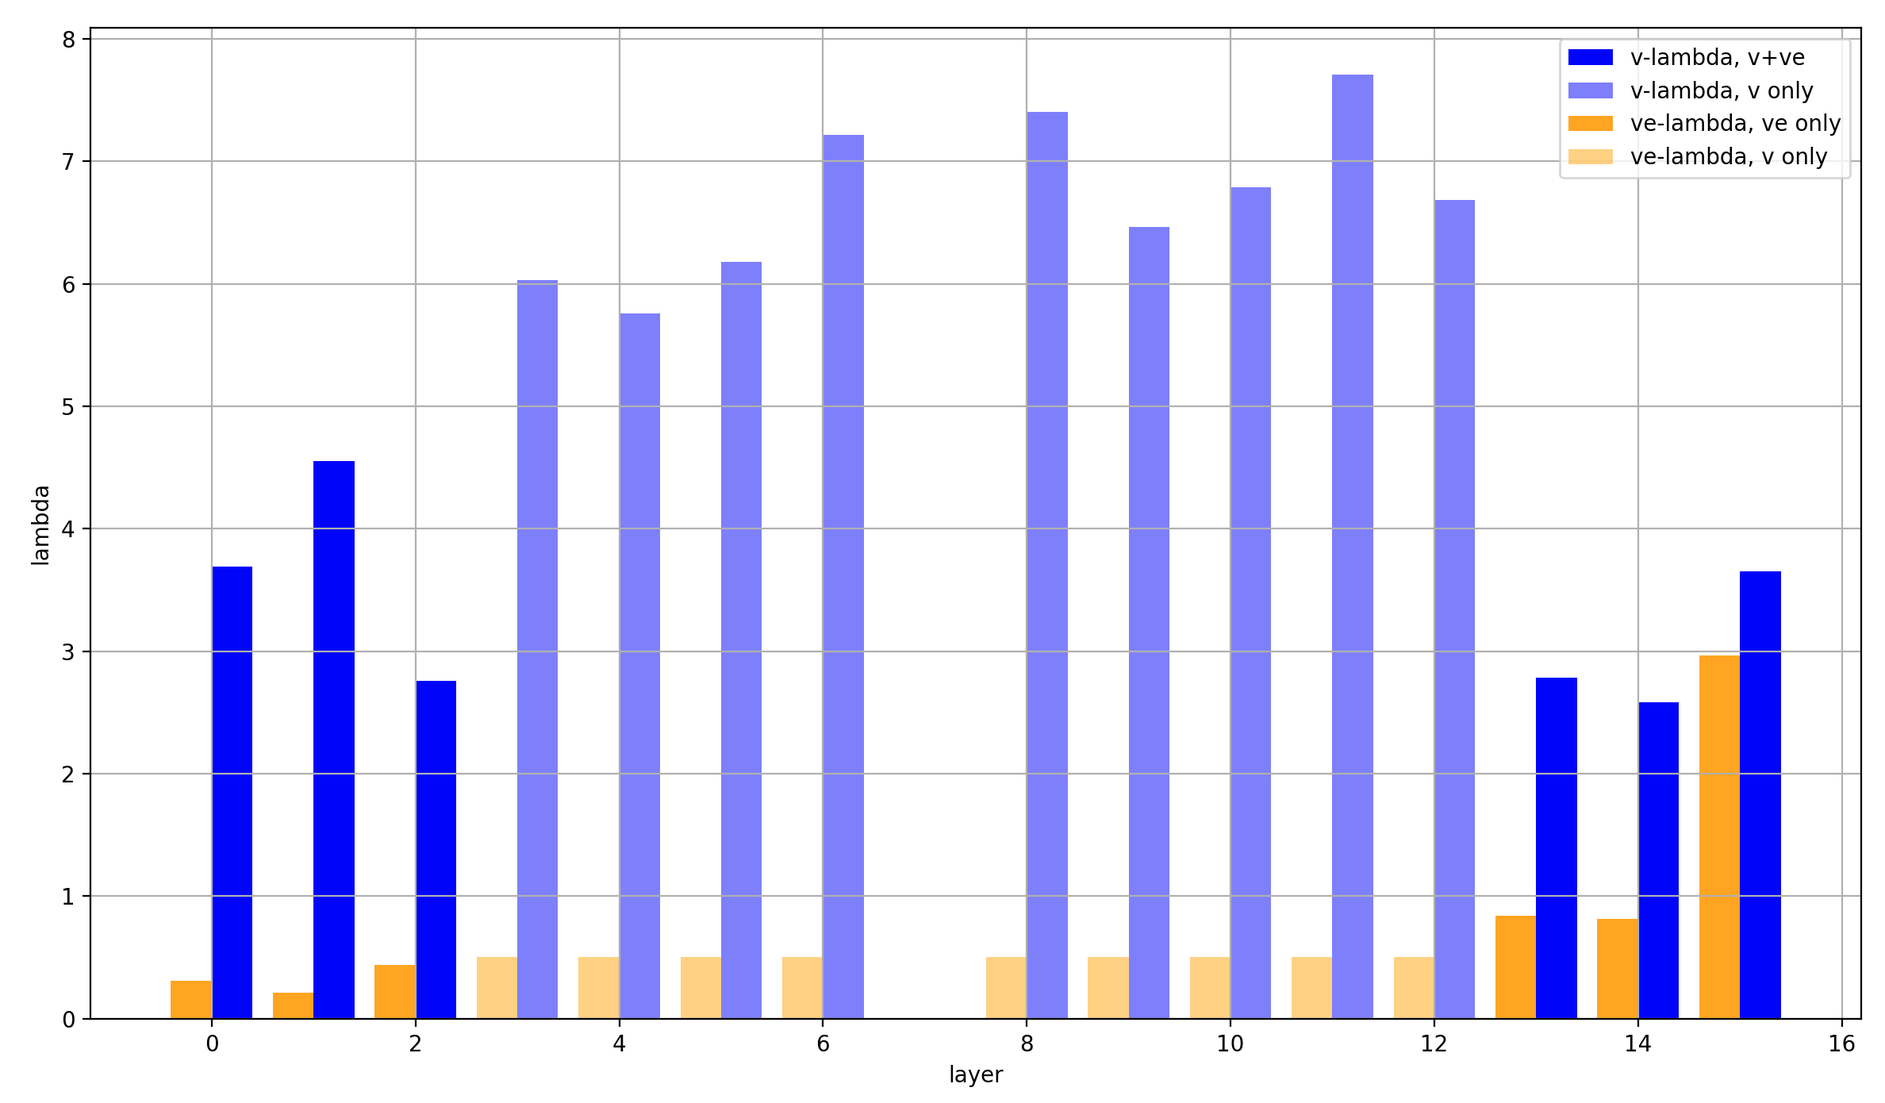
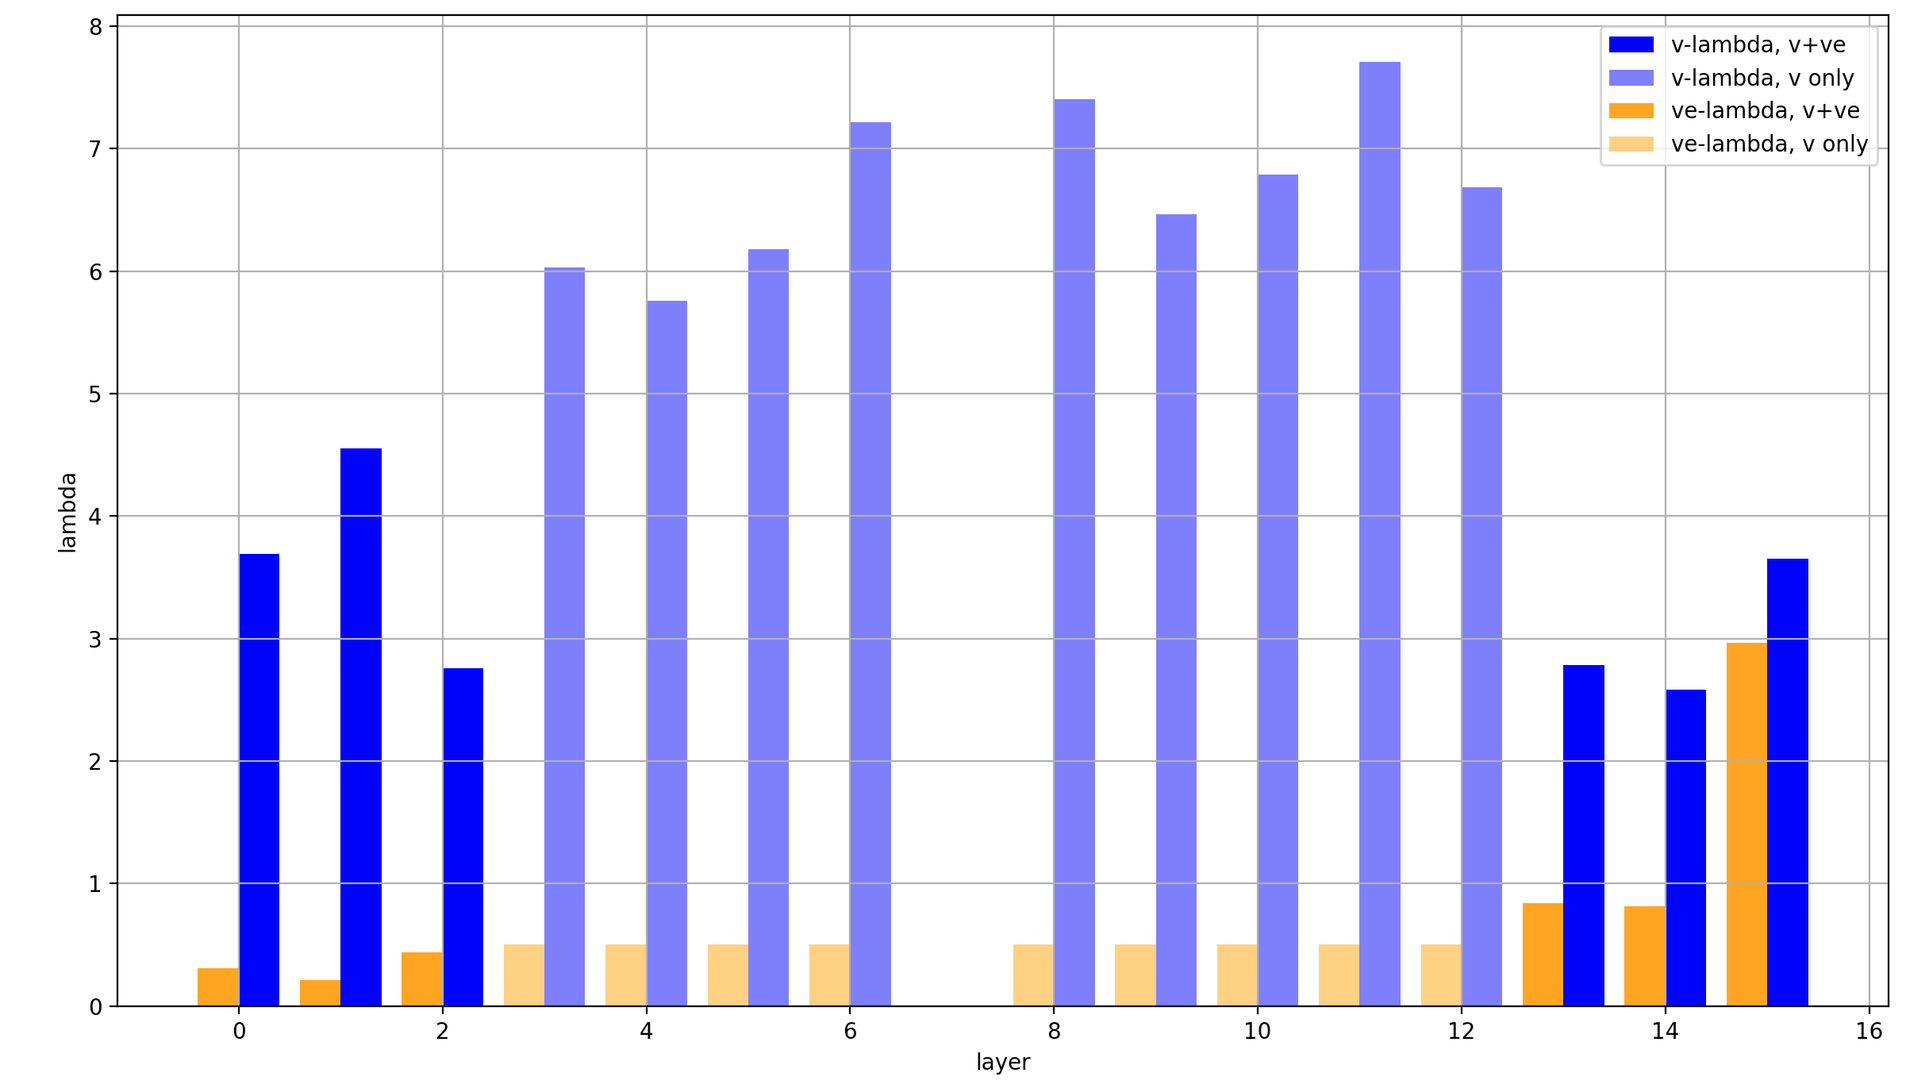
modded-nanogpt-lambdas: updates

diff --git a/_posts/2025-08-11-modded-nanogpt-lambdas.md b/_posts/2025-08-11-modded-nanogpt-lambdas.md
@@ -16,7 +16,7 @@ I have measured and plotted the weights of these weighted sums; the lambdas. In 
 
 This is for the code as of August 9th, 2025, corresponding to [this record log](https://github.com/KellerJordan/modded-nanogpt/blob/master/records/042225_GPT2Medium_Record8/075_640429f2-e726-4e83-aa27-684626239ffc.txt). You can find the code [here](https://github.com/snimu/modded-nanogpt-experiments/tree/main/experiments/00001-lambdas). If you have any feedback or ideas, I'd love to hear it on [this Twitter post](https://x.com/omouamoua/status/1954968887763628306).
 
-UPDATE: I have unfortunately mixed up the labels of `x_lambda` and `x0_lambda`, which completely changes my analysis of the [x0-lambdas section](#x0-lambdas). I'm very sorry; I hate being a source of misinformation. The article has been updated: I have changed the x0 section completely, but only made small edits to the other two sections.
+UPDATE 2025-08-12: I have unfortunately mixed up the labels of `x_lambda` and `x0_lambda`, which completely changes my analysis of the [x0-lambdas section](#x0-lambdas). I'm very sorry; I hate being a source of misinformation. The article has been updated: I have changed the x0 section completely, but only made small edits to the other two sections.
 
 <details>
 <summary>Expand this part to see the original article in full.</summary>
@@ -233,48 +233,52 @@ I don't fully understand the purpose of this modification to the standard transf
 
 Anyway, I have recorded the x0-lambdas for all layers over the entirety of training. Plotting all of these is very ugly, so for my main plot I only show the final value of the x0-lambdas over the model's layers, normed so that their absolute values sum to 1 (because we care about their relative weight):
 
-![x0-lambdas, normed](/assets/images/2025-08-11-modded-nanogpt-lambdas/x0_lambdas_normed.png)
+![x0-lambdas, normed](/assets/images/2025-08-11-modded-nanogpt-lambdas/x0_lambdas_normed_new.png)
 
 I can see three points of interest:
 
 First, the lambdas are almost identical in layer 0. That makes sense, because in layer 0 (and only in layer 0), `x == x0`.
 
-Secondly, at layer 8, the sign of the `x_lambda` is flipped. To reach this point, it has to cross 0! So at some point in training, layer 7 is almost completely ignored. Note the interaction with the U-Net lambdas: layers 7 and 8 are skipped pretty strongly anyway, so the previous layer contribute to the output even when the `x_lambda` is 0. Setting `x_lambda` to 0 at layer 8 does, however, set the contribution of layers 7 and 8 to zero and replacing them fully with x0, which apparently happens for a short time during training.
+Secondly, `x0_lambda` is very high in all layers but three; higher than `x_lambda` in fact! This immediately reminds me of very simple embeddings math, like the classic "king - man + woman = queen" example. All the model does in the last layer is add a vector to the inputs to turn them into the outputs.
 
-What is also interesting is that the x0-lambda is noticeably higher in layer 8 than in the other layers (except for the last). That may be chance, but it may also be a result of a specific architectural decision: layer 7 doesn't contain an Attention layer, only the MLP. This weakly suggests that layer 7 contributes less to the model than the other layers, and is thus overwritten more strongly with x0 (which is supported both by the strong skipping of middle layers via the U-net lambdas, and by the setting to zero of the `x_lambda` at layer 8).
+In this view, `x0_lambda` allows the model to compare the residual&mdash;meaning, in abstract terms, the vector it plans to add to the input embeddings&mdash;to the input to which it will be added&mdash;so x0&mdash;and adjusting accordingly. Throughout the model, `x0_lambda` dominates, so the model just continually refines the vector that it wants to add to x0 in the end, and the immediate view of x0 from `x0_lambda` allows it to correct course by comparing the output of the previous layer with the initial input.
 
-Lastly, the last layer has a very large x0-lambda. Almost 80% of the input to layer 15 consists of the input embeddings (which is again achieved by the x-lambda crossing 0 and becoming negative). That makes me view the final calculation as a simple embeddings calculation, like the stereotypical "king - man + woman = queen"; the transformer simply calculates the difference between the input and target embeddings. That is a common view of transformers, but it's accentuated in modded-nanogpt.
+That reminds me of the [Hierarchical Reasoning Model](https://arxiv.org/abs/2506.21734), where (a function of) x0 is used at multiple points to guide the generations of the main model.
 
-It also reveals a second purpose of the x0-lambdas: they allow the model to compare the residual&mdash;meaning, in abstract terms, the vector it plans to add to the input embeddings&mdash;to the input to which it will be added&mdash;so x0&mdash;and adjusting accordingly. That's a bit imprecise, but it helps my intuition. It reminds me of the [Hierarchical Reasoning Model](https://arxiv.org/abs/2506.21734), where (a function of) x0 is used at multiple points to guide the generations of the main model.
+Thirdly, the last layers have an even higher `x_lambda`. In the view that I've just expressed above, I think it's a useful simplification to view the model as just the last layer, which produces the final output by modifying the input x0. It does so via a learned bias in the form of the [value embeddings](#value-embeddings-lambdas) which I'll revisit below, and a dynamic compontent that is strongly influenced through guidance from the previous layers. So layers 0-14 calculate the direction of the vector update, and layer 15 applies the update (after small corrections) together with a bias to the input.
+
+In reality, layer 14 already has a high `x_lambda`, so this view isn't totally accurate; and of course in DeepLearning things are never that easily interpretable. However, I think that the evidence points to this view at least not being too far off, and it's a nice intuition for me.
+
+Lastly, it's also interesting is that `x_lambda` is noticeably higher in layer 8 than in the other layers (except for the last two). That may be chance, but it may also be a result of a specific architectural decision: layer 7 doesn't contain an Attention layer, only the MLP.
+
+Since an MLP is essentially an embedding layer that happens to return a weighted sum of features instead of an individual feature per token, this MLP conceivably fulfill a bit more of the purpose of x0 already. That's because while the tokens at its inputs are mixed, they probably aren't perfectly mixed, and so the input token at each position will tend to dominate. Therefore, this layer acts a bit like a [value embedding layer](#value-embeddings-lambdas), but fully in the path of the residual.
+
+And we should remember that the layer is skipped fairly strongly, which means that at layer 9 it's outputs (as filtered through layer 8) are just mixed into the residual from layer 6, making it behave even more closely like a value embedding.
+
+> I need to stress that this entire third point is purely speculation, except for the statement of fact at its beginning.
 
 ---
 
 Now, let's look at the x0-lambdas over the layers *and* over the course of training.
 
-First the normalized values:
+First the absolute values (because they show more interesting results):
 
-![x0-lambdas normed, layers 0-3](/assets/images/2025-08-11-modded-nanogpt-lambdas/x0_lambdas_0-3_normed.png)
-![x0-lambdas normed, layers 4-7](/assets/images/2025-08-11-modded-nanogpt-lambdas/x0_lambdas_4-7_normed.png)
-![x0-lambdas normed, layers 8-11](/assets/images/2025-08-11-modded-nanogpt-lambdas/x0_lambdas_8-11_normed.png)
-![x0-lambdas normed, layers 12-15](/assets/images/2025-08-11-modded-nanogpt-lambdas/x0_lambdas_12-15_normed.png)
+![x0-lambdas absolute, layers 0-3](/assets/images/2025-08-11-modded-nanogpt-lambdas/x0_lambdas_0-3_new.png)
+![x0-lambdas absolute, layers 4-7](/assets/images/2025-08-11-modded-nanogpt-lambdas/x0_lambdas_4-7_new.png)
+![x0-lambdas absolute, layers 8-11](/assets/images/2025-08-11-modded-nanogpt-lambdas/x0_lambdas_8-11_new.png)
+![x0-lambdas absolute, layers 12-15](/assets/images/2025-08-11-modded-nanogpt-lambdas/x0_lambdas_12-15_new.png)
 
-What immediately jumps out to me is that the lambdas develop very smoothly in all layers *except* in layers 8 and 15. But of course, this irregularity just comes from `x_lambda` crossing the 0-point. More interesting is that `x_lambda` first grows relative to `x0_lambda`, before dropping off a cliff and crossing over into negative territory.
+What immediately jumps out to me is that in layers 8, 14, and 15, `x0_lambda` first grows relative to `x_lambda`, before dropping off a cliff and crossing over into negative territory. That means that for a short while, it's at 0, and x0 has no impact on these three layers.
 
-It's also curious to me that the crossover into negative values happens so late in training. In a static setting, I would say that inverting the sign of an activation isn't a huge deal, because this can be made up for with the weights. But in this case, the weights were adapted to a positive `x_lambda` most of the training run. In that case, inverting the sign *is* meaningful, and it reminds me of embeddings-math again.
+It's also curious to me that the crossover into negative values happens so late in training. That means that it happens when the model is already used to a positive `x0_lambda` in these layers. Inverting the sign of the x0 summand changes the embedding math, and that points to something else changing at the same time.
 
-For this, it's also very important that both crossovers happen at the same time, so the two mostly make up for each other. The effects of the crossover of `x_lambda` to negative values are therefore threefold:
-
-1. The interaction with x0 changes between layers 8 and 15
-2. The interaction with the value embeddings (more on those [below](#value-embeddings-lambdas)) changes in layers 13 and 14
-3. At layers 8 and 15, the impact of x falls to 0 and then rises again, meaning that for a short while, they produce their outputs only based on x0 (and the value embeddings in the case of layer 15)
-
-The last point is remarkable. Layer 15, which is the very last layer of the model, for a short while represents a single-layer transformer that takes to different embeddings of the same input tokens as its input. And this doesn't cause a spike in the validation loss:
+This change doesn't cause any loss spikes though, the validation loss is smooth as ever:
 
 ![Validation loss](/assets/images/2025-08-11-modded-nanogpt-lambdas/val_loss.png)
 
-It's also noteable that layer 14 is the only other layer in which the impact of x0 exceeds the impact of x at the end of training. It's especially interesting because that's how it starts, but for a large part of the middle of training, the inverse is true.
+What's also interesting is that layer 14 is the only layer in which `x0_lambda` remains positive at the end of training, while still being lower than `x_lambda`.
 
-A third phenomenon is that the impact of x rises over most of training, and then falls again at the end, *in every single layer* but the first (where it doesn't matter). This tends to happen earlier than the crossover of `x_lambda` into negative values in layers 8 and 15.
+Another phenomenon is that the impact of x0 rises over most of training, and then falls again at the end, *in every single layer* but the first (where it doesn't matter). This tends to happen earlier than the crossover of `x0_lambda` into negative values in layers 8 and 15.
 
 I wonder how these dynamics are connected to the learning rate schedule and the sequence length schedule (modded-nanogpt uses a block mask that increases in size over the course of training). So here is a plot of the learning rate and sequence length, relative to their absolute values (so normalized to between 0 and 1):
 
@@ -284,26 +288,33 @@ The learning rate is constant for the first ~2000 steps, then falls linearly to 
 
 And that is indeed very informative!
 
-- The impact of x stops rising relative to x0 right around the time when the learning rate begins decaying, and the sequence length becomes constant
-- In layer 14, x0 becomes more important than x right after the sequence length begins increasing again
-- The `x_lambda` crossover happens shortly after that, which makes it look like it is also connected to the sequence length schedule
+- The impact of x0 stops rising relative to x right around the time when the learning rate begins decaying, and the sequence length becomes constant
+- In layer 14, x becomes more important than x0 right after the sequence length begins increasing again
+- The `x0_lambda` crossover happens shortly after that, which makes it look like it is also connected to the sequence length schedule
 
-Especially the second and third point are curious to me. Is the solution for dealing with sequence length extension to focus more strongly on x0?
+The last two points make a lot of sense to me: the solution to an increasing sequence length is to move away more strongly from x0, which provides a bias toward the immediate neighborhood of each token. That can then be adjusted later on as the weights are updated, but it's a really logical step at least for a while.
 
 I don't know how meaningful these are, and how consistent they happen over different training runs, but the close relationship between hyperparameters and x0-lambdas make me think that there are real phenomena here.
 
-Now let's look at the absolute values:
+Here are some more observations:
 
-![x0-lambdas absolute, layers 0-3](/assets/images/2025-08-11-modded-nanogpt-lambdas/x0_lambdas_0-3.png)
-![x0-lambdas absolute, layers 4-7](/assets/images/2025-08-11-modded-nanogpt-lambdas/x0_lambdas_4-7.png)
-![x0-lambdas absolute, layers 8-11](/assets/images/2025-08-11-modded-nanogpt-lambdas/x0_lambdas_8-11.png)
-![x0-lambdas absolute, layers 12-15](/assets/images/2025-08-11-modded-nanogpt-lambdas/x0_lambdas_12-15.png)
+One interesting phenomenon is that the early layers tend to have higher absolute `x0_lambda` values than the later ones, which means two things:
 
-One interesting phenomenon is that the early layers tend to have higher absolute values than the later ones, so the impact of early layers is accentuated beyond the U-Net connections. Taking the U-Net connections into account, this means thats the effective model depth is shortened again, and middle layers add their algorithmic complexity in more subtle ways.
+1. The early layers make really small adjustments to the input embeddings
+2. x0 is carried to the later layers with more weight through the U-Net connections
+
+Taking the U-Net connections into account, these very high absolute values means thats the effective model depth is shortened again, and middle layers add their algorithmic complexity in more subtle ways.
 
 But it might also be connected with the [value embeddings](#value-embeddings-lambdas), which are applied to the first and last three layers. High x- and x0-magnitudes in the first three layers suppress the relative impact of the value embeddings, while low magnitudes in the last layers will keep them high. But let's re-visit this later.
 
 Layers 8 and 15 are the layers with the lowest `x_lambda` and `x0_lambda`. I'm not sure what that means, just wanted to point it out.
+
+For the sake of completeness, here are also the normalized values:
+
+![x0-lambdas normalized, layers 0-3](/assets/images/2025-08-11-modded-nanogpt-lambdas/x0_lambdas_0-3_normed_new.png)
+![x0-lambdas normalized, layers 4-7](/assets/images/2025-08-11-modded-nanogpt-lambdas/x0_lambdas_4-7_normed_new.png)
+![x0-lambdas normalized, layers 8-11](/assets/images/2025-08-11-modded-nanogpt-lambdas/x0_lambdas_8-11_normed_new.png)
+![x0-lambdas normalized, layers 12-15](/assets/images/2025-08-11-modded-nanogpt-lambdas/x0_lambdas_12-15_normed_new.png)
 
 ## Value-Embeddings Lambdas
 
@@ -313,9 +324,9 @@ However, that is only the case in the first and last three layers. In between, o
 
 To add more complexity, the value embeddings of the first and last three layers are shared; so layers 0 and 13, layers 1 and 14, and layers 2 and 15 share the same value embeddings. This saves parameters and ensures that there is a short gradient path from the loss to the value embeddings. While additional gradient comes from the first three layers which are the farthest away from the input, there is always gradient from the three layers nearest to the loss, too.
 
-I admit that I only have some very weak intuitions for why value embeddings help. I've long held that token embeddings are a way to hold training-set wide statistics about the byte-sequence represented by the token, so I'm guessing that they add a way for the model to store more static per-token statistics which are helpful. Another viewpoint on this is that at least the value embeddings at the last three layers effectively reduce the model depth again. The most basic idea is that embeddings in general are a very cheap way to add parameters to an LLM (because they don't require a matrix multiplication, just a lookup) However, that's 100% speculation and you shouldn't take it too seriously.
+I admit that I only have some very weak intuitions for why value embeddings help. I've long held that token embeddings are a way to hold training-set wide statistics about the byte-sequence represented by the token, so I'm guessing that they add a way for the model to store more static per-token statistics which are helpful. Another viewpoint on this is that at least the value embeddings at the last three layers effectively reduce the model depth again. The most basic idea is that embeddings in general are a very cheap way to add parameters to an LLM (because they don't require a matrix multiplication, just a lookup). And finally, as discussed above, the value embeddings act as a learned, data-dependent bias term. However, that's 100% speculation and you shouldn't take it too seriously.
 
-More importantly, I will again plot the final values of these lambdas over the layers. However, this time both the absolute and the relative values are of interest. The absolute values are specifically interesting for the layers in which there are no value-embeddings but `v_lambda` is still used to scale the values. The normed values are particularly interesting (at least in my eyes) for the layers where values embeddings are applied, because I'm interested in their weight relative to the values.
+More importantly, I will again plot the final values of these lambdas over the layers. And this time both the absolute and the relative values are of interest. The absolute values are specifically interesting for the layers in which there are no value-embeddings but `v_lambda` is still used to scale the values. The normed values are particularly interesting (at least in my eyes) for the layers where values embeddings are applied, because I'm interested in their weight relative to the values.
 
 So here is the plot with the absolute values:
 
@@ -331,7 +342,7 @@ Some observations about the layer with value embeddings (layers 0-2 and 13-15):
 
 - `v_lambda` is significantly larger than at initialization for all layers, though not as much as without value embeddings
 - `ve_lambda` stays very low, except in the last layer
-- The ratio of `v_lambda` to `ve_lambda` is much higher in the first than the last layers; the value embeddings seem to have little impact on the first few layers (at least numerically, they could still stabilize training, or add just enough to make a difference, or whatever, but this only adds to the high magnitudes of x and x0 from the [x0-lambdas](#x0-lambdas)).
+- The ratio of `v_lambda` to `ve_lambda` is much higher in the first than the last layers; the value embeddings seem to have little impact on the first few layers (at least numerically, they could still stabilize training, or add just enough to make a difference, or whatever, but this is only supported by the high magnitudes of x0 from the [x0-lambdas](#x0-lambdas)).
 
 To make more sense of that last point especially, let's look at the normalized lambdas:
 
@@ -342,8 +353,6 @@ Three clear groups emerge:
 1. Layers 0-2, which are affected very weakly by the value embeddings (by only around 10%)
 2. Layers 13 and 14, which are affected fairly strongly by the value embeddings (by around 25%)
 3. Layer 15, which uses its value embeddings almost as strongly as its input from the residual stream (with around 45% intensity)
-
-The last point is very interesting, because as we saw before, the last layer already mixes the original embeddings into the residual stream at its input with about 50% magnitude. That's a lot of fixed values that don't depend on the token-order at all!
 
 ---
 
@@ -358,7 +367,7 @@ First the normalized values:
 
 In the layers without value embeddings, the magnitude of the attention-values rises very quickly and never reverses course.
 
-But in the layer *with* value embeddings, only layers 0 and 1 behave similarly. For layers 2 and 13-15, the value embeddings first gain in relative importance before losing it again. The later the layer, the later this reversal happens.
+But in the layer *with* value embeddings, only layers 0 and 1 behave like that. For layers 2 and 13-15, the value embeddings first gain in relative importance before losing it again. The later the layer, the later this reversal happens.
 
 And here are the un-normed values:
 
